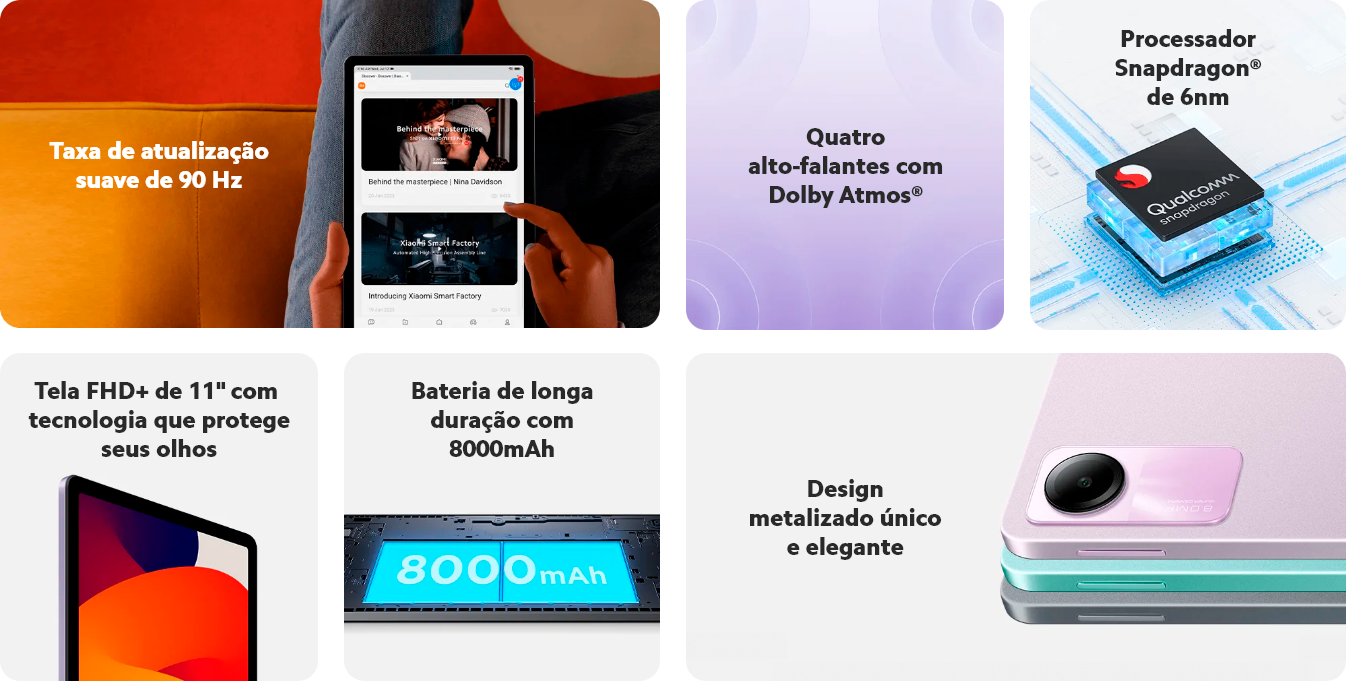
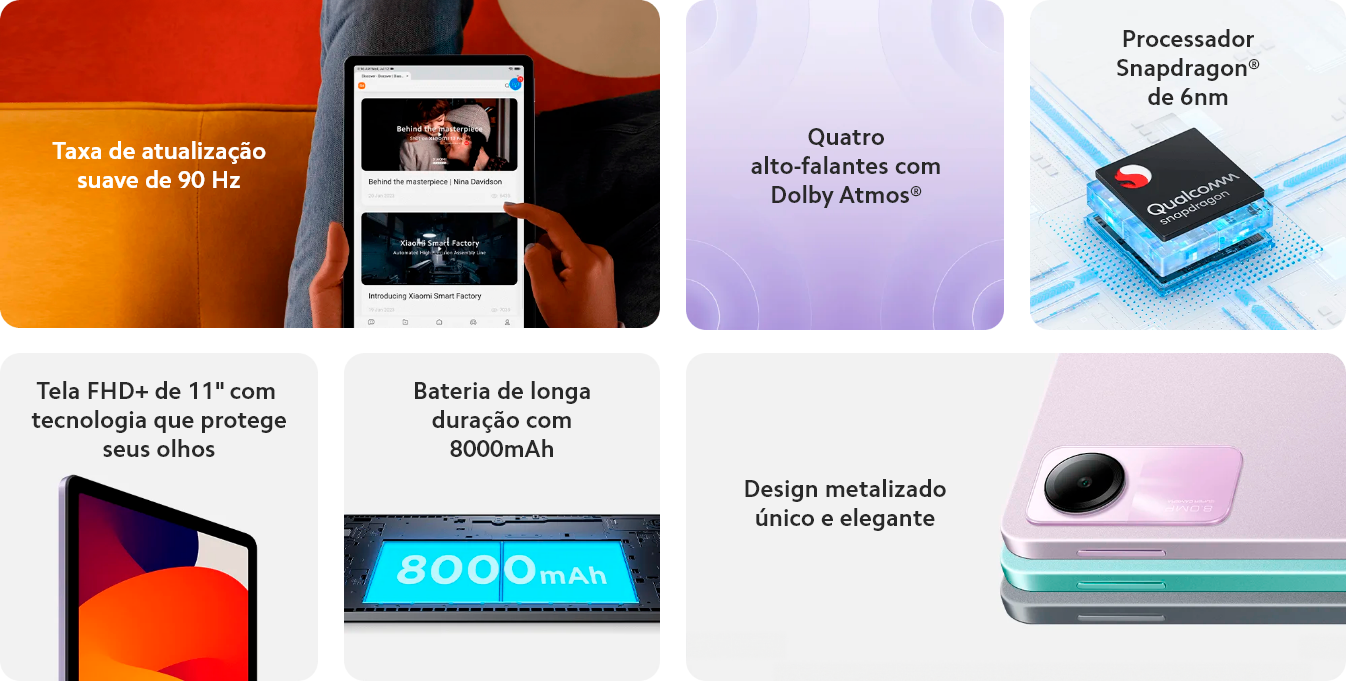
vs01

diff --git a/index.html b/index.html
@@ -63,6 +63,10 @@
             </div>
 
             <div class="col-sm-12">
+                <img class="img-fluid" src="./img/02.jpg">
+            </div>
+
+            <div class="col-sm-12">
                 
                 <div class="grid-pad-se">
 
@@ -95,9 +99,7 @@
 
             </div>
 
-            <div class="col-sm-12">
-                <img class="img-fluid" src="./img/02.jpg">
-            </div>
+           
 
         </div>
 
@@ -185,12 +187,12 @@
 
             <div class="col-sm-12 grid-img-pad">
 
-                <!--<div><img class="img-fluid" src="./img/Bloco2/01.jpg" style="margin-bottom: 2rem;">
+                <div><img class="img-fluid" src="./img/Bloco2/01.jpg" style="margin-bottom: 2rem;">
                     <div style="display: flex; flex-direction: column; flex-wrap: nowrap; align-content: center; justify-content: center; align-items: center; ">
                         <img src="./img/cores/01.png" alt="">
                         <p class="icons-text">Lavender Purple</p>
                     </div>
-                </div>-->
+                </div>
 
                 <div><img class="img-fluid" src="./img/Bloco2/02.jpg" style="margin-bottom: 2rem;">
                     <div style="display: flex; flex-direction: column; flex-wrap: nowrap; align-content: center; justify-content: center; align-items: center;">
@@ -199,12 +201,12 @@
                     </div>
                 </div>
 
-                <!--<div><img class="img-fluid" src="./img/Bloco2/03.jpg" style="margin-bottom: 2rem;">
+                <div><img class="img-fluid" src="./img/Bloco2/03.jpg" style="margin-bottom: 2rem;">
                     <div style="display: flex; flex-direction: column; flex-wrap: nowrap; align-content: center; justify-content: center; align-items: center;">
                         <img src="./img/cores/03.png" alt="">
                         <p class="icons-text">Mint Green</p>
                     </div>
-                </div>-->
+                </div>
 
             </div>
 
@@ -357,23 +359,23 @@
 
                 <p class="p-notas txt-preto">Observação:
                     <br>
+                    <br>
                     *As imagens e os vídeos nesta página são apenas para fins ilustrativos e podem não ser a
-                    representação exata do produto.
-                    A interface do usuário real pode variar.
+                    representação exata do produto. A interface do usuário real pode variar.
+                    <br>
                     <br>
                     *Dados de duração da bateria fornecidos pelo Laboratório Xiaomi, testados a 25°C. Os dados
-                    específicos podem variar de
-                    acordo com o ambiente de teste.
+                    específicos podem variar de acordo com o ambiente de teste.
+                    <br>
                     <br>
                     *O tamanho da tela do Redmi Pad SE é de aproximadamente 11 polegadas até a borda do retângulo
-                    quando
-                    medido na diagonal.
+                    quando medido na diagonal.
                     A área de visualização real é menor devido ao design com cantos curvos. As medidas entre
-                    produtos
-                    individuais podem
-                    variar.
+                    produtos individuais podem variar.
+                    <br>
                     <br>
                     *A taxa de atualização pode ser ajustada para até 90 Hz para aplicativos e jogos compatíveis.
+                    <br>
                     <br>
                     *A taxa de atualização varia em diferentes cenários e muda automaticamente.
                 </p>

diff --git a/css/style.css b/css/style.css
@@ -36,8 +36,8 @@ body {
 
 .subtitle {
   text-align: center;
-  font-size: 3rem;
-  font-weight: 800;
+  font-size: 2.3rem;
+  font-weight: 600;
   font-family: "Camphor Pro", sans-serif;
   position: relative;
   margin-bottom: 1rem;
@@ -46,7 +46,7 @@ body {
 
 .sub-title {
   text-align: center;
-  font-size: 3rem;
+  font-size: 2.3rem;
   font-weight: 400;
   font-family: "Camphor Pro", sans-serif;
   position: relative;
@@ -55,7 +55,7 @@ body {
 }
 
 .p-center {
-  font-size: 1.5rem;
+  font-size: 1.3rem;
   text-align: center;
   padding: 20px;
   font-family: "Camphor Pro", sans-serif;
@@ -74,7 +74,7 @@ body {
 }
 
 .icons-title {
-  font-size: 2rem;
+  font-size: 2.5rem;
   text-align: center;
   font-family: "Camphor Pro", sans-serif;
   position: relative;
@@ -85,18 +85,18 @@ body {
 }
 
 .icons-title-01 {
-  font-size: 1.5rem;
+  font-size: 2.5rem;
   text-align: center;
   font-family: "Camphor Pro", sans-serif;
   position: relative;
-  font-weight: 500;
+  font-weight: 700;
   color: #5c317e;
   margin-top: 1rem;
   line-height: 1.2;
 }
 
 .icons-text {
-  font-size: 1.3rem;
+  font-size: 1rem;
   text-align: center;
   font-family: "Camphor Pro", sans-serif;
   position: relative;
@@ -160,9 +160,10 @@ p.txt-branco-preto {
   display: flex;
   flex-wrap: wrap;
   justify-content: center;
-  max-width: 40rem;
+  max-width: 63rem;
   margin: 0 auto;
-  gap: 3rem;
+  gap: 1rem;
+  margin-top: -12rem;
 }
 
 .grid-pad-se-text {
@@ -220,8 +221,6 @@ display: none;
     display: block;
   }
 
-  
-
   .img-grid-desk{
     display: none;
   }
@@ -240,7 +239,7 @@ display: none;
     flex-direction: column;
     gap: 1rem;
     top: 1.5rem;
-}
+  }
 
   .grid-pad-se-text {
     display: flex;
